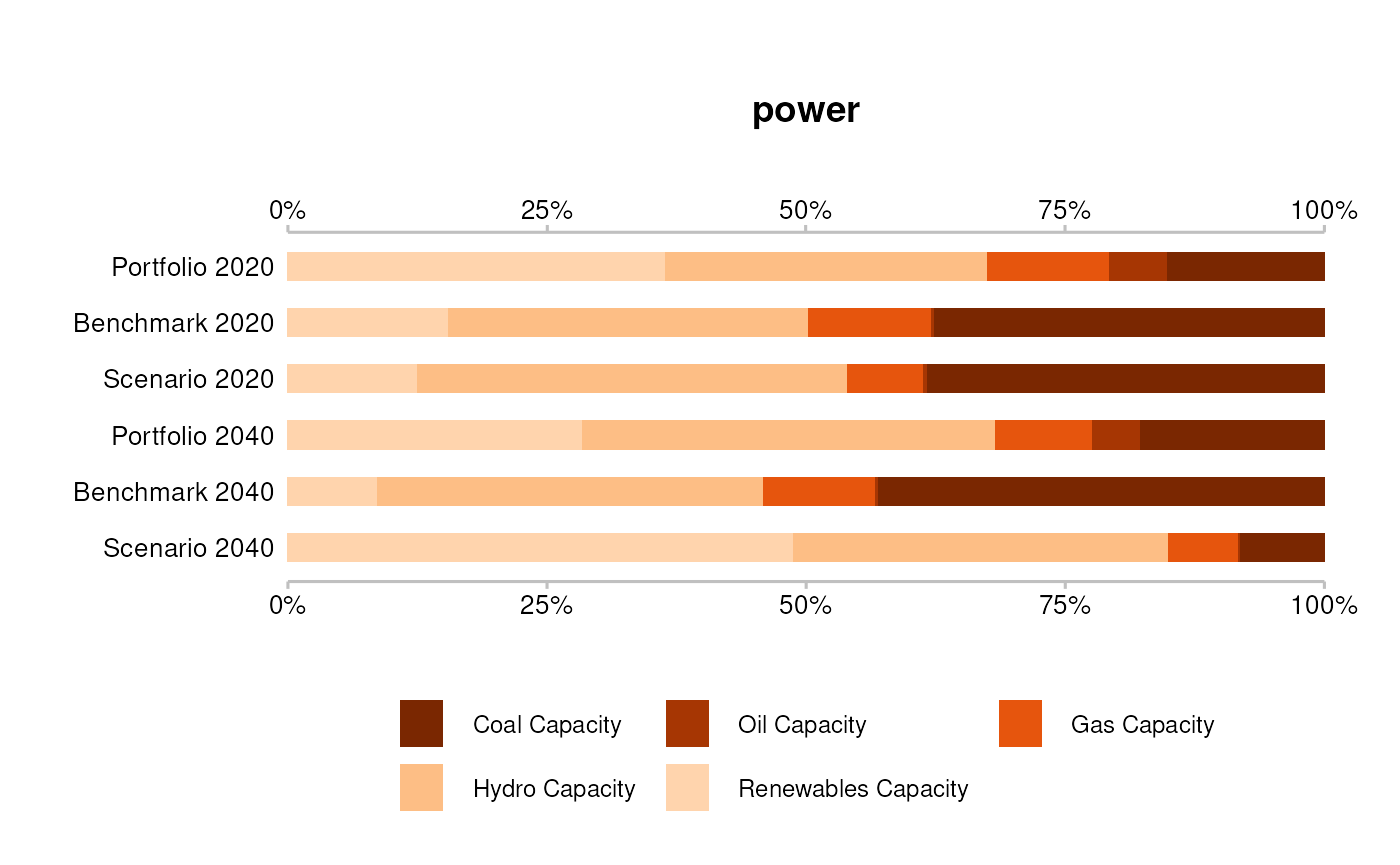
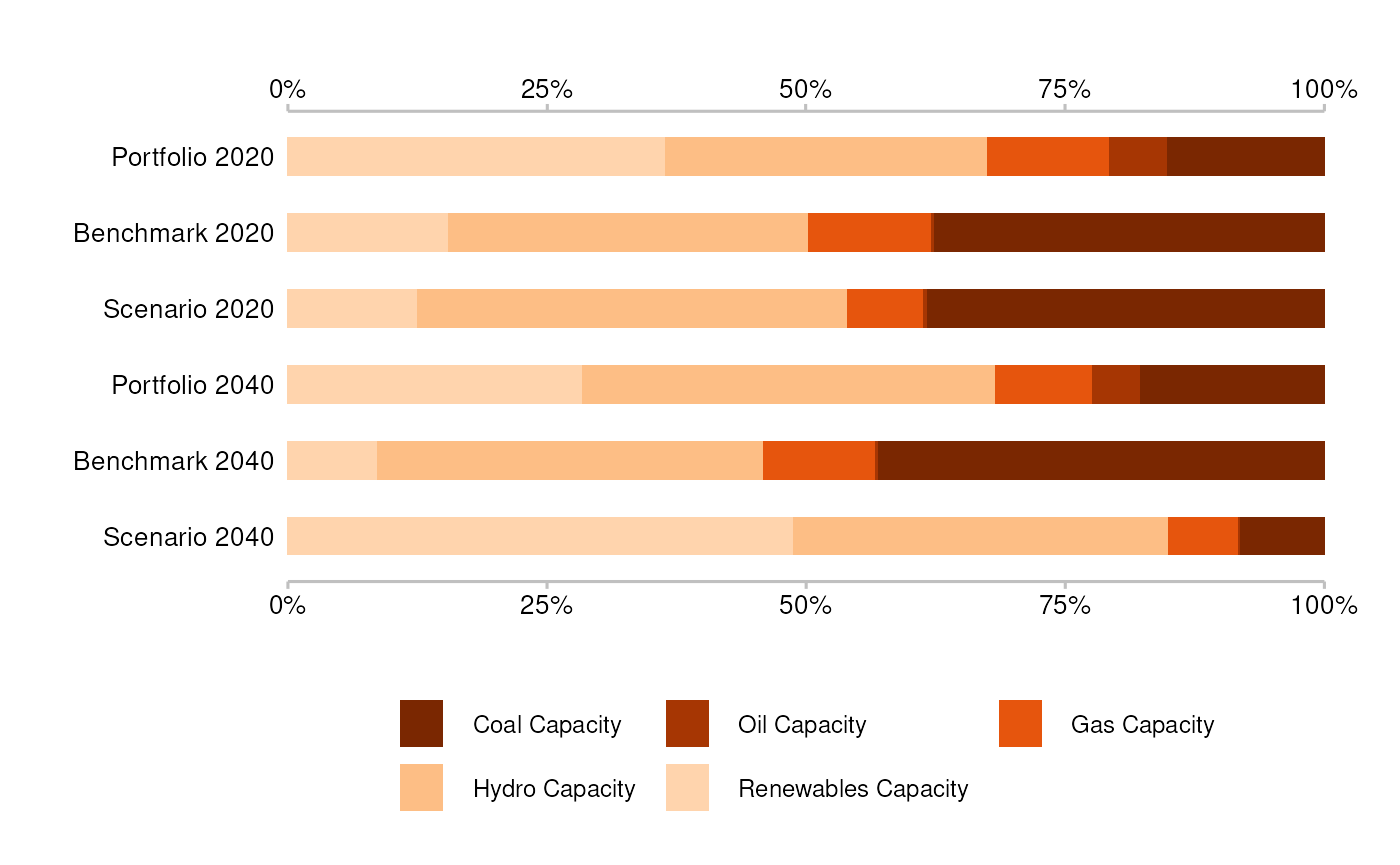
Built site for r2dii.plot: 0.0.0.9000@

Changed region(s): [[0.0614, 0.0936, 0.9521, 0.6555], [0.9214, 0.0936, 0.9829, 0.1249], [0.1843, 0.0936, 0.215, 0.1249]]

diff --git a/articles/articles/r2dii-plot-X.html b/articles/articles/r2dii-plot-X.html
@@ -196,39 +196,14 @@
     <span class="va">sector</span> <span class="op">==</span> <span class="st">"power"</span>,
     <span class="va">region</span> <span class="op">==</span> <span class="st">"global"</span>
   <span class="op">)</span> <span class="op">%&gt;%</span> 
-  <span class="fu"><a href="../../reference/plot_techmixX.html">plot_techmixX</a></span><span class="op">(</span><span class="op">)</span> <span class="op">+</span> <span class="fu"><a href="https://ggplot2.tidyverse.org/reference/labs.html">labs</a></span><span class="op">(</span>title <span class="op">=</span> <span class="st">"power"</span><span class="op">)</span></code></pre></div>
+  <span class="fu"><a href="../../reference/plot_techmixX.html">plot_techmixX</a></span><span class="op">(</span><span class="op">)</span></code></pre></div>
 <p><img src="r2dii-plot-X_files/figure-html/unnamed-chunk-6-1.png" width="700"></p>
-<p>How would you create one plot for every sector? One way is to wrap the code in a helper function and make <code>sector</code> and argument. Then you can iterate over each sector with <code><a href="https://rdrr.io/r/base/lapply.html">lapply()</a></code>.</p>
-<div class="sourceCode" id="cb8"><pre class="downlit sourceCode r">
-<code class="sourceCode R"><span class="va">plot_sector_techmix</span> <span class="op">&lt;-</span> <span class="kw">function</span><span class="op">(</span><span class="va">x</span><span class="op">)</span> <span class="op">{</span>
-  <span class="va">chosen_metrics</span> <span class="op">&lt;-</span> <span class="fu"><a href="https://rdrr.io/r/base/c.html">c</a></span><span class="op">(</span><span class="st">"projected"</span>, <span class="st">"corporate_economy"</span>, <span class="st">"target_sds"</span><span class="op">)</span>
-  
-  <span class="va">market_share</span> <span class="op">%&gt;%</span>
-    <span class="fu"><a href="https://dplyr.tidyverse.org/reference/filter.html">filter</a></span><span class="op">(</span>
-      <span class="va">metric</span> <span class="op">%in%</span> <span class="va">chosen_metrics</span>,
-      <span class="va">sector</span> <span class="op">==</span> <span class="va">x</span>,
-      <span class="va">region</span> <span class="op">==</span> <span class="st">"global"</span>
-    <span class="op">)</span> <span class="op">%&gt;%</span>
-    <span class="fu"><a href="../../reference/plot_techmixX.html">plot_techmixX</a></span><span class="op">(</span><span class="op">)</span> <span class="op">+</span> <span class="fu"><a href="https://ggplot2.tidyverse.org/reference/labs.html">labs</a></span><span class="op">(</span>title <span class="op">=</span> <span class="va">x</span><span class="op">)</span>
-<span class="op">}</span>
-
-<span class="op">(</span><span class="va">sectors</span> <span class="op">&lt;-</span> <span class="fu"><a href="https://rdrr.io/r/base/unique.html">unique</a></span><span class="op">(</span><span class="va">market_share</span><span class="op">$</span><span class="va">sector</span><span class="op">)</span><span class="op">)</span>
-<span class="co">#&gt; [1] "automotive"  "oil and gas" "power"</span>
-<span class="fu"><a href="https://rdrr.io/r/base/lapply.html">lapply</a></span><span class="op">(</span><span class="va">sectors</span>, <span class="va">plot_sector_techmix</span><span class="op">)</span>
-<span class="co">#&gt; [[1]]</span></code></pre></div>
-<p><img src="r2dii-plot-X_files/figure-html/unnamed-chunk-7-1.png" width="700"></p>
-<pre><code>#&gt; 
-#&gt; [[2]]</code></pre>
-<p><img src="r2dii-plot-X_files/figure-html/unnamed-chunk-7-2.png" width="700"></p>
-<pre><code>#&gt; 
-#&gt; [[3]]</code></pre>
-<p><img src="r2dii-plot-X_files/figure-html/unnamed-chunk-7-3.png" width="700"></p>
 </div>
 <div id="trajectory" class="section level3">
 <h3 class="hasAnchor">
 <a href="#trajectory" class="anchor"></a>Trajectory</h3>
 <p>Use <code><a href="../../reference/plot_trajectoryX.html">plot_trajectoryX()</a></code> with <code>market_share</code>-like data. Again, learn which rows to pick by reading the documented “Requirements” of the argument <code>data</code>, or by trial and error.</p>
-<div class="sourceCode" id="cb11"><pre class="downlit sourceCode r">
+<div class="sourceCode" id="cb8"><pre class="downlit sourceCode r">
 <code class="sourceCode R"><span class="va">market_share</span> <span class="op">%&gt;%</span> 
   <span class="fu"><a href="https://dplyr.tidyverse.org/reference/filter.html">filter</a></span><span class="op">(</span>
     <span class="va">sector</span> <span class="op">==</span> <span class="st">"power"</span>, 
@@ -238,7 +213,7 @@
   <span class="fu"><a href="../../reference/plot_trajectoryX.html">plot_trajectoryX</a></span><span class="op">(</span><span class="op">)</span>
 <span class="co">#&gt; Warning: Removed 21 row(s) containing missing values (geom_path).</span>
 <span class="co">#&gt; Warning: Removed 1 rows containing missing values (geom_text_repel).</span></code></pre></div>
-<p><img src="r2dii-plot-X_files/figure-html/unnamed-chunk-8-1.png" width="700"></p>
+<p><img src="r2dii-plot-X_files/figure-html/unnamed-chunk-7-1.png" width="700"></p>
 </div>
 </div>
   </div>
